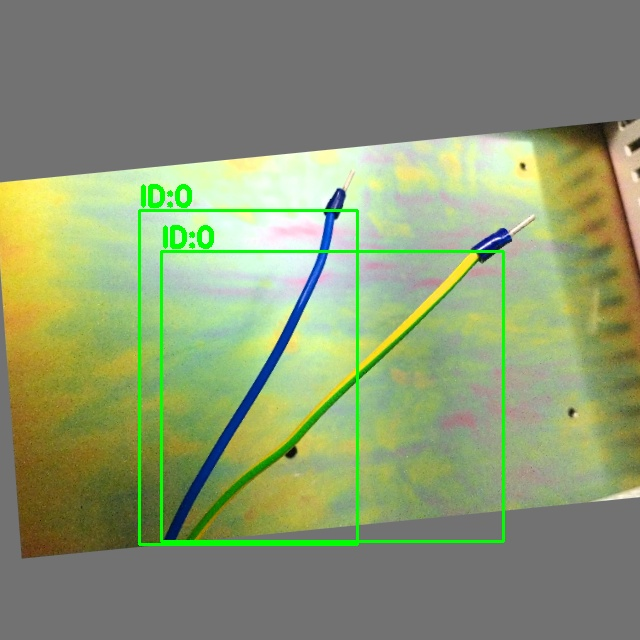
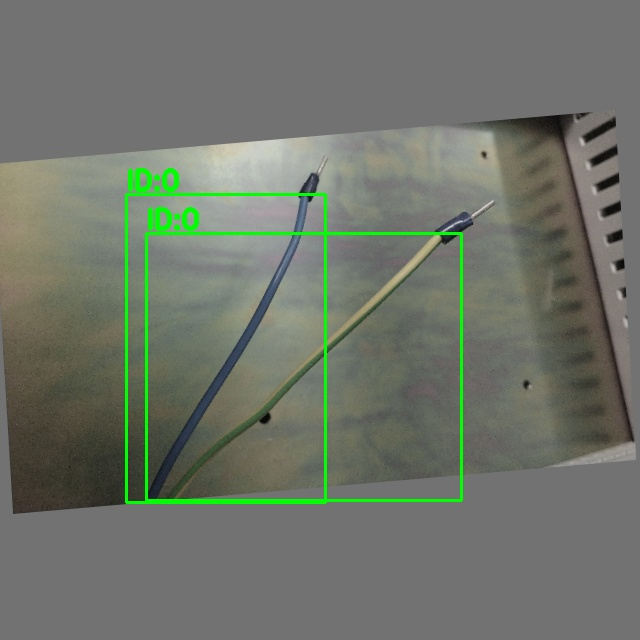
较完善的，数据增强脚本

diff --git a/utils/database_augment.py b/utils/database_augment.py
@@ -17,11 +17,15 @@ import cv2
 import numpy as np
 import random
 import math
-from typing import List, Tuple, Optional
+import os
 import utils.util as util
+from glob import glob
+from typing import List, Tuple, Optional
 
 class YOLOAugmentor:
     def __init__(self,
+                 img_dir,
+                 label_dir,
                  img_size: Tuple[int,int] = (640, 640),
                  hsv_prob: float = 1.0,
                  hsv_gain: Tuple[float,float,float] = (0.015, 0.7, 0.4),
@@ -45,6 +49,35 @@ class YOLOAugmentor:
         self.translate = translate
         self.scale = scale
         self.shear = shear
+
+        self.load_image_paths(img_dir, label_dir)
+
+    def load_image_paths(self, img_dir, label_dir):
+        """获取所有图片路径和标签路径"""
+        self.img_files = sorted(glob(os.path.join(img_dir, "*.jpg")))
+        self.label_files = [
+            os.path.join(label_dir, os.path.basename(x).replace(".jpg", ".txt"))
+            for x in self.img_files
+        ]
+
+    def load_image(self, index):
+        """通过索引加载图片和标签"""
+        img_path = self.img_files[index]
+        print(img_path)
+        label_path = self.label_files[index]
+
+        img = cv2.imread(img_path)
+        assert img is not None, f"Image not found: {img_path}"
+
+        labels = []
+        if os.path.exists(label_path):
+            with open(label_path, "r") as f:
+                for line in f.readlines():
+                    cls, x, y, w, h = map(float, line.strip().split())
+                    labels.append([cls, x, y, w, h])
+        labels = np.array(labels, dtype=np.float32)
+        return img, labels
+
 
     # ----------------------------- Utilities -----------------------------
     def to_numpy(self, img):
@@ -234,56 +267,99 @@ class YOLOAugmentor:
         return img, bboxes
 
     # ----------------------------- Mosaic -----------------------------
-    def mosaic(self, images: List[np.ndarray], labels: List[np.ndarray]):
-        s = max(self.img_h, self.img_w)
-        yc, xc = [int(random.uniform(int(0.25*s), int(0.75*s))) for _ in range(2)]
-        mosaic_img = np.full((s, s, 3), 114, dtype=np.uint8)
-        out_labels = []
-        for i, (img, label) in enumerate(zip(images, labels)):
-            h, w = img.shape[:2]
-            scale = random.uniform(0.4, 1.0)
-            img = cv2.resize(img, (int(w*scale), int(h*scale)))
-            h, w = img.shape[:2]
+    def mosaic_augment_fixed(self, index):
+        s = self.img_w
+        mosaic_img = np.full((s * 2, s * 2, 3), 114, dtype=np.uint8)
+        yc, xc = [int(random.uniform(s * 0.5, s * 1.5)) for _ in range(2)]
 
-            if i == 0:  # top-left
-                x1a, y1a, x2a, y2a = max(xc - w, 0), max(yc - h, 0), xc, yc
-                x1b, y1b, x2b, y2b = w - (x2a - x1a), h - (y2a - y1a), w, h
-            elif i == 1:  # top-right
-                x1a, y1a, x2a, y2a = xc, max(yc - h, 0), min(xc + w, s), yc
-                x1b, y1b, x2b, y2b = 0, h - (y2a - y1a), min(w, x2a - x1a), h
-            elif i == 2:  # bottom-left
-                x1a, y1a, x2a, y2a = max(xc - w, 0), yc, xc, min(s, yc + h)
-                x1b, y1b, x2b, y2b = w - (x2a - x1a), 0, w, min(y2a - y1a, h)
-            else:  # bottom-right
-                x1a, y1a, x2a, y2a = xc, yc, min(xc + w, s), min(s, yc + h)
-                x1b, y1b, x2b, y2b = 0, 0, min(w, x2a - x1a), min(y2a - y1a, h)
+        indices = [index] + random.choices(range(len(self.img_files)), k=3)
+        mosaic_labels = []
+
+        for i, idx in enumerate(indices):
+            img, labels = self.load_image(idx)
+            h, w = img.shape[:2]
+            scale = s / max(h, w)
+            if random.random() < 0.5:
+                scale *= random.uniform(0.5, 1.5)
+            nh, nw = int(h * scale), int(w * scale)
+            img = cv2.resize(img, (nw, nh))
+
+            # 放入 mosaic 画布中的位置
+            if i == 0:
+                x1a, y1a, x2a, y2a = max(xc - nw, 0), max(yc - nh, 0), xc, yc
+                x1b, y1b, x2b, y2b = nw - (x2a - x1a), nh - (y2a - y1a), nw, nh
+            elif i == 1:
+                x1a, y1a, x2a, y2a = xc, max(yc - nh, 0), min(xc + nw, s * 2), yc
+                x1b, y1b, x2b, y2b = 0, nh - (y2a - y1a), min(nw, x2a - x1a), nh
+            elif i == 2:
+                x1a, y1a, x2a, y2a = max(xc - nw, 0), yc, xc, min(s * 2, yc + nh)
+                x1b, y1b, x2b, y2b = nw - (x2a - x1a), 0, nw, min(y2a - y1a, nh)
+            else:
+                x1a, y1a, x2a, y2a = xc, yc, min(xc + nw, s * 2), min(s * 2, yc + nh)
+                x1b, y1b, x2b, y2b = 0, 0, min(nw, x2a - x1a), min(nh, y2a - y1a)
 
             mosaic_img[y1a:y2a, x1a:x2a] = img[y1b:y2b, x1b:x2b]
 
-            pad_x = x1a - x1b
-            pad_y = y1a - y1b
+            # --- 修正标注 ---
+            if labels is not None and len(labels):
+                labels = labels.copy()
+                # YOLO -> 绝对坐标
+                labels[:, 1] = labels[:, 1] * w * scale
+                labels[:, 2] = labels[:, 2] * h * scale
+                labels[:, 3] = labels[:, 3] * w * scale
+                labels[:, 4] = labels[:, 4] * h * scale
 
-            if label.size:
-                new = label.copy()
-                new[:,0] = new[:,0] + pad_x
-                new[:,1] = new[:,1] + pad_y
-                new[:,2] = new[:,2] + pad_x
-                new[:,3] = new[:,3] + pad_y
-                out_labels.append(new)
-        if len(out_labels):
-            out_labels = np.concatenate(out_labels, axis=0)
-            out_labels[:, [0,2]] = out_labels[:, [0,2]].clip(0, s)
-            out_labels[:, [1,3]] = out_labels[:, [1,3]].clip(0, s)
-            keep = (out_labels[:,2] - out_labels[:,0] > 4) & (out_labels[:,3] - out_labels[:,1] > 4)
-            out_labels = out_labels[keep]
+                # 加平移
+                labels[:, 1] = labels[:, 1] - x1b + x1a
+                labels[:, 2] = labels[:, 2] - y1b + y1a
+
+                mosaic_labels.append(labels)
+
+        # === 合并所有标签 ===
+        if len(mosaic_labels):
+            mosaic_labels = np.concatenate(mosaic_labels, axis=0)
+
+            # 将中心点、宽高 → xyxy
+            xyxy = np.zeros_like(mosaic_labels)
+            xyxy[:, 0] = mosaic_labels[:, 0]  # class
+            xyxy[:, 1] = mosaic_labels[:, 1] - mosaic_labels[:, 3] / 2
+            xyxy[:, 2] = mosaic_labels[:, 2] - mosaic_labels[:, 4] / 2
+            xyxy[:, 3] = mosaic_labels[:, 1] + mosaic_labels[:, 3] / 2
+            xyxy[:, 4] = mosaic_labels[:, 2] + mosaic_labels[:, 4] / 2
+
+            # === 裁剪到最终区域 ===
+            x1 = max(xc - s // 2, 0)
+            y1 = max(yc - s // 2, 0)
+            x2 = x1 + s
+            y2 = y1 + s
+            mosaic_img = mosaic_img[y1:y2, x1:x2]
+
+            # 将框裁剪到边界（保留部分可见目标）
+            xyxy[:, 1] = np.clip(xyxy[:, 1] - x1, 0, s)
+            xyxy[:, 2] = np.clip(xyxy[:, 2] - y1, 0, s)
+            xyxy[:, 3] = np.clip(xyxy[:, 3] - x1, 0, s)
+            xyxy[:, 4] = np.clip(xyxy[:, 4] - y1, 0, s)
+
+            # 过滤过小或无效框
+            w_box = xyxy[:, 3] - xyxy[:, 1]
+            h_box = xyxy[:, 4] - xyxy[:, 2]
+            keep = (w_box > 2) & (h_box > 2)
+            xyxy = xyxy[keep]
+
+            # === 回 YOLO 格式 ===
+            if len(xyxy):
+                labels_new = np.zeros_like(xyxy)
+                labels_new[:, 0] = xyxy[:, 0]
+                labels_new[:, 1] = (xyxy[:, 1] + xyxy[:, 3]) / 2 / s
+                labels_new[:, 2] = (xyxy[:, 2] + xyxy[:, 4]) / 2 / s
+                labels_new[:, 3] = w_box[keep] / s
+                labels_new[:, 4] = h_box[keep] / s
+            else:
+                labels_new = np.zeros((0, 5))
         else:
-            out_labels = np.zeros((0,5))
-        mosaic_img, ratio, (dw, dh) = self.letterbox(mosaic_img, new_size=(self.img_h, self.img_w))
+            labels_new = np.zeros((0, 5))
 
-        if len(out_labels):
-            out_labels = self.xyxy_to_yolo(out_labels, mosaic_img.shape)
-
-        return mosaic_img, out_labels
+        return mosaic_img, labels_new
 
     # ----------------------------- MixUp -----------------------------
     def mixup(self, img1, labels1, img2, labels2, alpha=0.5):
@@ -319,11 +395,30 @@ class YOLOAugmentor:
         print(labels)
         return img, labels
 
+    def apply_pipeline(self, index):
+        """完整增强流程"""
+        if random.random() < self.mosaic_prob:
+            image, label = self.mosaic_augment_fixed(index)
+        else:
+            image, label = self.load_image(index)
+        image, label = self.random_affine(image, label)
+        image, label = self.random_flip(image, label)
+        image = self.random_hsv(image)
+        image, label = self.cutout(image, label)
+        return image, label
 
 # ----------------------------- Example Usage -----------------------------
 if __name__ == '__main__':
+
+    augmentor = YOLOAugmentor(img_dir="/home/chenkejing/database/ElectricWiresDataset/test/imgs",
+                              label_dir="/home/chenkejing/database/ElectricWiresDataset/test/labels")
+
+    # 随机选择一张图片，执行完整 pipeline
+    image, label = augmentor.apply_pipeline(index=0)
+    mosaic_img = util.draw_yolo_boxes(image, label, color=(0, 255, 0))
+    cv2.imwrite('mosaic_pro.jpg', mosaic_img)
     # quick test
-    aug = YOLOAugmentor(img_size=(640,640), mosaic_prob=0.0, cutout_prob=0.3)
+    # aug = YOLOAugmentor(img_size=(640,640), mosaic_prob=0.0, cutout_prob=0.3)
     # img = cv2.imread('test.jpg')  # replace with your path
     # # sample label: x1,y1,x2,y2,class
     # labels = np.array([[0, 0.478750, 0.654359, 0.462500, 0.691281],[0, 0.355750, 0.581628, 0.290000, 0.836744]])
@@ -334,11 +429,11 @@ if __name__ == '__main__':
     # oringin_image = util.draw_yolo_boxes(img, labels, color=(0, 255, 0))
     # cv2.imwrite('oringin_image.jpg', oringin_image)
 
-    # mosaic usage (requires 4 images and labels)
-    imgs = [cv2.imread(p) for p in ['c1_0.jpg','c1_1.jpg','c1_2.jpg','c1_3.jpg']]
-    labs = [np.array([[0,0.368750,0.500000,0.737500,1.000000]]),
-            np.array([[0,0.500000,0.842749,1.000000,0.178381],[0,0.500000,0.708407,1.000000,0.090302],[0,0.500000,0.506005,1.000000,0.154359],[0,0.500000,0.228648,1.000000,0.097865],[0,0.500000,0.140125,1.000000,0.170819]]),
-            np.array([[0,0.500000,0.577847,1.000000,0.844306]]),
-            np.array([[0,0.460000,0.596530,0.380000,0.806940]])]
-    mosaic_img, mosaic_labels = aug.mosaic(imgs, labs)
-    cv2.imwrite('mosaic.jpg', mosaic_img)
+    # # mosaic usage (requires 4 images and labels)
+    # imgs = [cv2.imread(p) for p in ['c1_0.jpg','c1_1.jpg','c1_2.jpg','c1_3.jpg']]
+    # labs = [np.array([[0,0.368750,0.500000,0.737500,1.000000]]),
+    #         np.array([[0,0.500000,0.842749,1.000000,0.178381],[0,0.500000,0.708407,1.000000,0.090302],[0,0.500000,0.506005,1.000000,0.154359],[0,0.500000,0.228648,1.000000,0.097865],[0,0.500000,0.140125,1.000000,0.170819]]),
+    #         np.array([[0,0.500000,0.577847,1.000000,0.844306]]),
+    #         np.array([[0,0.460000,0.596530,0.380000,0.806940]])]
+    # mosaic_img, mosaic_labels = aug.mosaic(imgs, labs)
+    # cv2.imwrite('mosaic.jpg', mosaic_img)

diff --git a/utils/mosaic_augment.py b/utils/mosaic_augment.py
@@ -8,7 +8,7 @@ import utils.util as util
 os.environ["QT_QPA_PLATFORM"] = "offscreen"
 
 class DataAugmentor:
-    def __init__(self, img_dir, label_dir, img_size=1024):
+    def __init__(self, img_dir, label_dir, img_size=640):
         self.img_dir = img_dir
         self.label_dir = label_dir
         self.img_size = img_size
